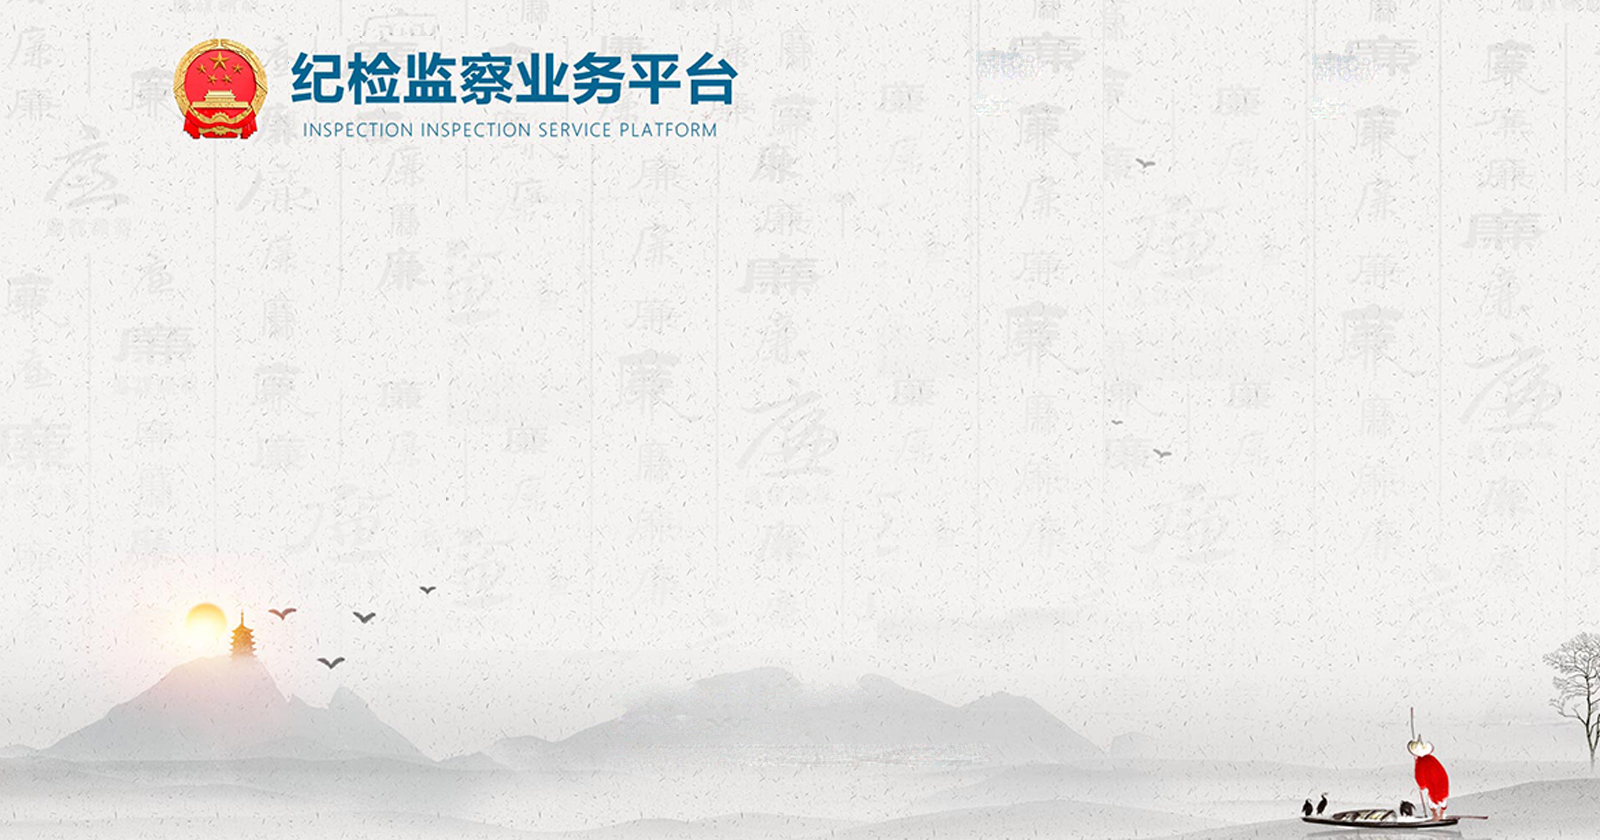
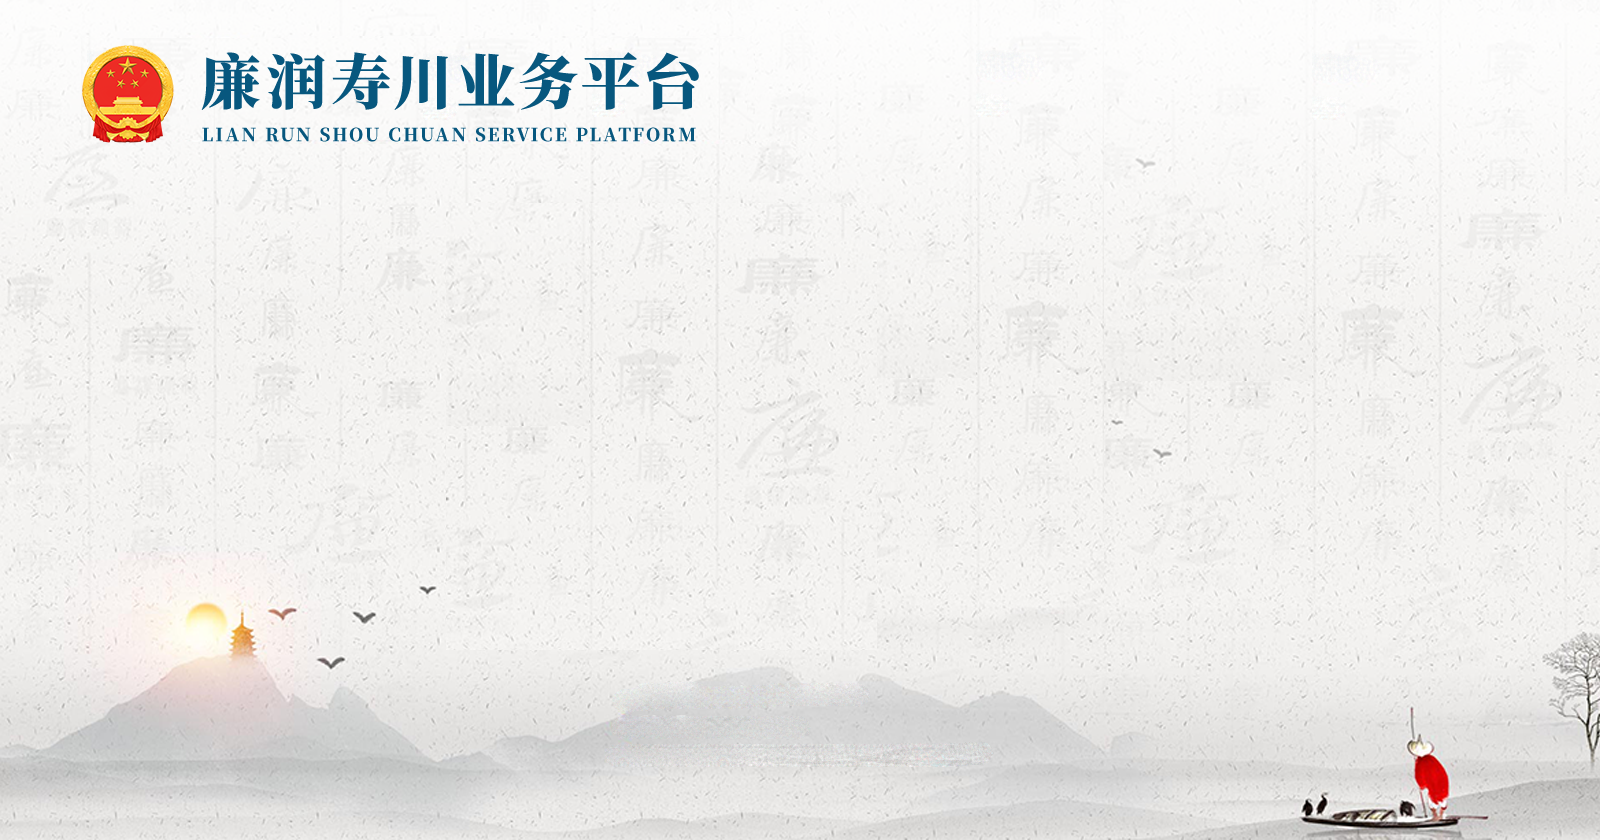
1.调整验证码样式 2.将”纪检监察“替换为”廉润寿川“

Changed region(s): [[0.0312, 0.031, 0.4688, 0.1857], [0.8125, 0.031, 0.875, 0.0929], [0.5938, 0.031, 0.6562, 0.0929]]

diff --git a/src/main/java/com/hengtianyi/dims/constant/RoleEnum.java b/src/main/java/com/hengtianyi/dims/constant/RoleEnum.java
@@ -12,7 +12,7 @@ public enum RoleEnum {
    */
   WGY("村（社）网格员", 1001),
 
-  WGLLY("纪检监察网格联络员", 1002),
+  WGLLY("廉润寿川网格联络员", 1002),
 
   XZJWGLY("乡镇纪委管理员", 1003),
 
